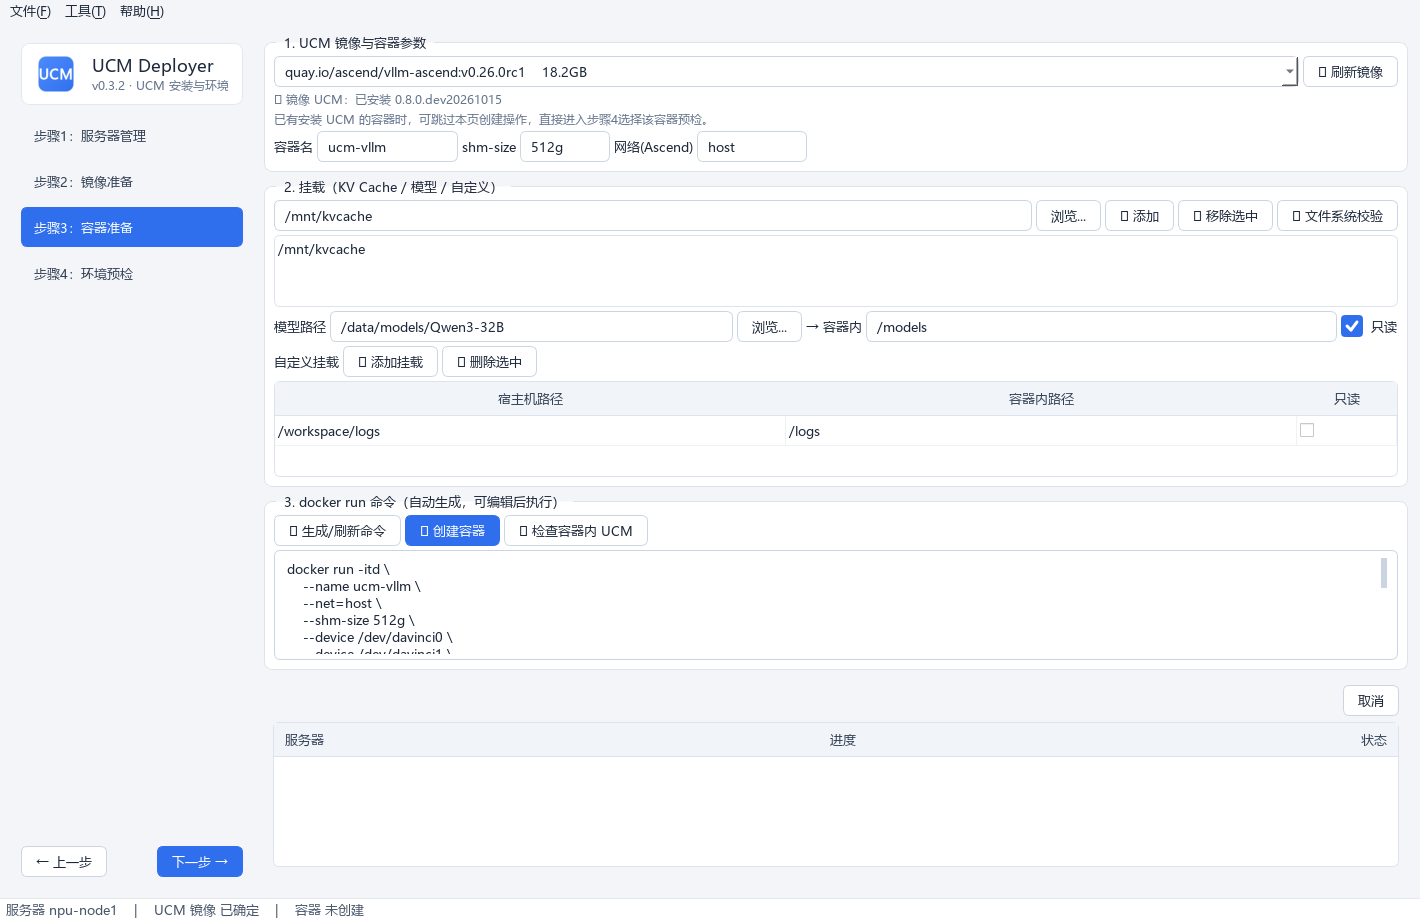
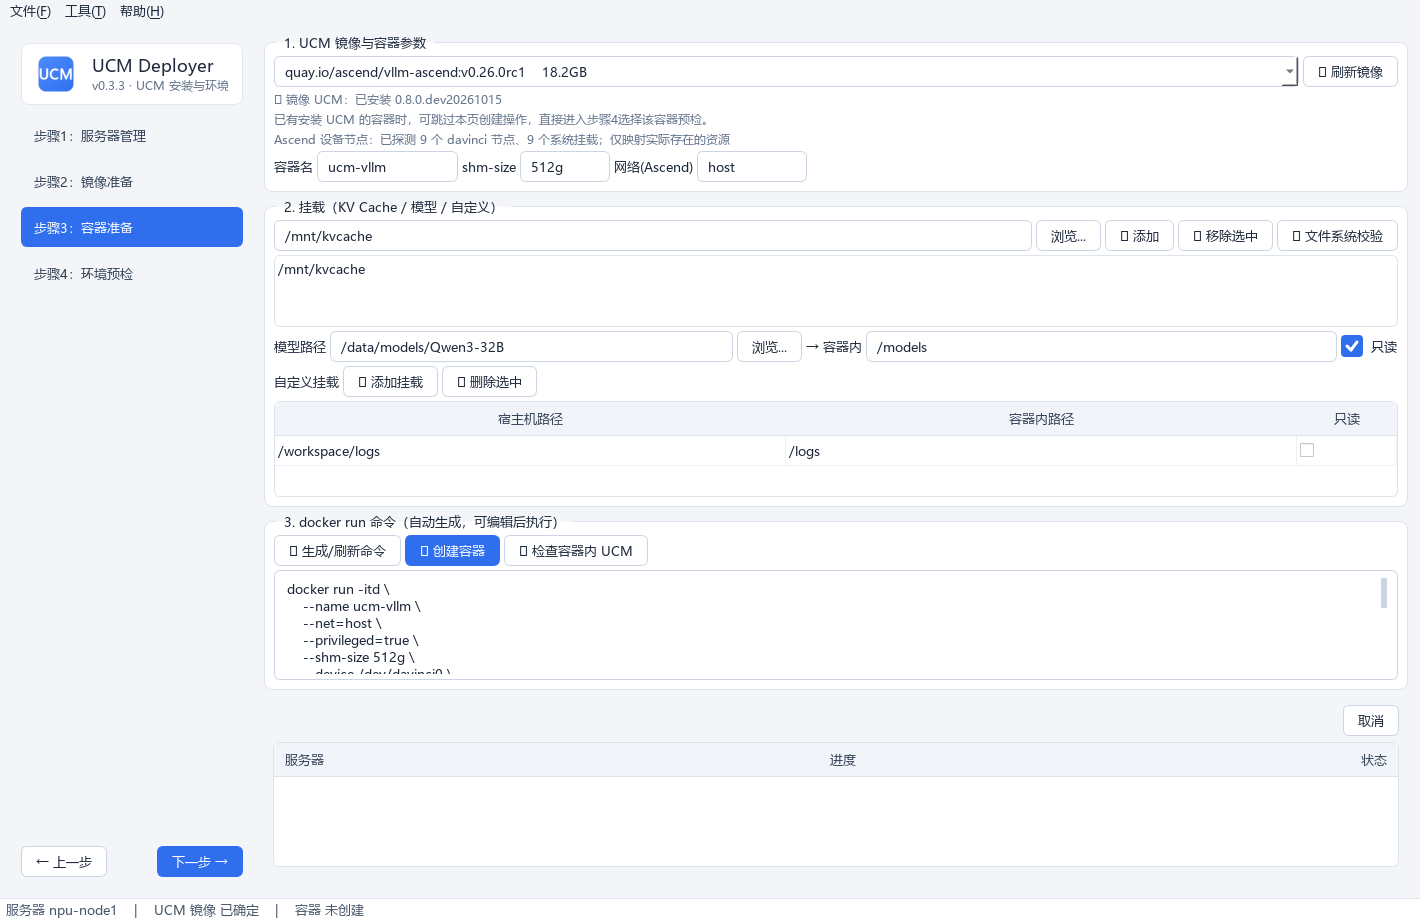
docs(release): prepare UCM installer v0.3.3

diff --git a/docs/index.html b/docs/index.html
@@ -276,7 +276,7 @@ footer {
     <a class="btn btn-primary" href="#quickstart">快速开始</a>
     <a class="btn btn-outline" href="https://github.com/student-jhz/UCM-Deployer/releases/latest/download/UCM-Deployer.exe">下载 EXE</a>
   </div>
-  <p class="meta">当前版本 v0.3.2 · 支持 Ascend NPU · NVIDIA GPU · Linux 服务器 · Docker</p>
+  <p class="meta">当前版本 v0.3.3 · 支持 Ascend NPU · NVIDIA GPU · Linux 服务器 · Docker</p>
 </header>
 
 <div class="container">
@@ -291,7 +291,7 @@ footer {
   </div>
   <div class="cards">
     <div class="card"><h3>凭据复用</h3><p>密码或私钥登录，密码 Fernet 加密保存在本机，下次打开自动复用。</p></div>
-    <div class="card"><h3>设备感知</h3><p>自动识别 Ascend / NVIDIA 型号、卡数与 CPU 架构，并贯穿镜像与容器准备。</p></div>
+    <div class="card"><h3>设备感知</h3><p>自动识别 Ascend / NVIDIA 型号、卡数与 CPU 架构，并按宿主机实际资源生成容器参数。</p></div>
     <div class="card"><h3>镜像导入</h3><p>支持本地 tar 包上传，也支持输入镜像仓库地址，按目标架构拉取后自动导入服务器。</p></div>
     <div class="card"><h3>按需构建</h3><p>仅在基础镜像未安装 UCM 时上传 wrapt、UCM、ucm-toolkit whl 并构建新镜像。</p></div>
     <div class="card"><h3>命令透明</h3><p>所有 Docker 命令先完整展示，允许编辑，再执行，避免黑盒操作。</p></div>
@@ -357,7 +357,7 @@ python -m venv .venv
     <thead><tr><th>探测项</th><th>来源</th><th>用途</th></tr></thead>
     <tbody>
       <tr><td>设备类型与型号</td><td><code>npu-smi info</code> / <code>nvidia-smi</code></td><td>匹配基础镜像平台，生成设备映射</td></tr>
-      <tr><td>卡数</td><td>设备探测结果</td><td>决定步骤 3 全量映射加速卡数量</td></tr>
+      <tr><td>卡数</td><td>设备探测结果</td><td>辅助校验步骤 3 探测到的 davinci 节点数量</td></tr>
       <tr><td>CPU 架构</td><td><code>uname -m</code></td><td>校验 whl 架构，并为镜像仓库拉取选择 linux/amd64 或 linux/arm64</td></tr>
     </tbody>
   </table>
@@ -414,6 +414,7 @@ python -m venv .venv
     若目标容器已安装 UCM，无需重复创建。直接进入步骤 4，刷新容器列表并选择该容器即可开始环境预检。
   </div>
   <h3>容器参数</h3>
+  <p>进入页面后自动探测实际存在的 Ascend 设备节点与系统挂载。兼容 Ascend950PR / A5：缺失 <code>/dev/devmm_svm</code> 时不生成该参数，存在 <code>/dev/ummu</code> 或 <code>/dev/uburma</code> 时自动添加 <code>--privileged=true</code>。</p>
   <table>
     <thead><tr><th>参数</th><th>默认值</th><th>说明</th></tr></thead>
     <tbody>
@@ -433,14 +434,22 @@ python -m venv .venv
     <figcaption>目录浏览器用于选择 KV Cache 与模型挂载路径</figcaption>
   </figure>
   <h3>命令示例</h3>
-  <pre><code># Ascend NPU：全量映射 davinci 设备与驱动
+  <pre><code># Ascend NPU：仅映射实际存在的设备节点与系统资源
 docker run -itd \\
   --name ucm-vllm \\
   --net=host --shm-size 512g \\
   --device /dev/davinci0 --device /dev/davinci1 \\
-  --device /dev/davinci_manager --device /dev/devmm_svm --device /dev/hisi_hdc \\
+  --device /dev/davinci_manager --device /dev/hisi_hdc \\
+  --device /dev/ummu --device /dev/uburma \\
+  --privileged=true \\
+  -v /usr/local/Ascend/driver:/usr/local/Ascend/driver \\
+  -v /etc/ascend_install.info:/etc/ascend_install.info \\
+  -v /etc/hccl_rootinfo.json:/etc/hccl_rootinfo.json \\
+  -v /etc/hixlep:/etc/hixlep \\
   -v /usr/local/dcmi:/usr/local/dcmi \\
-  -v /usr/local/Ascend/driver/lib64/:/usr/local/Ascend/driver/lib64/ \\
+  -v /usr/local/sbin:/usr/local/sbin \\
+  -v /usr/local/bin/npu-smi:/usr/local/bin/npu-smi \\
+  -v /usr/lib64:/usr/lib64 \\
   -v /mnt/kvcache:/mnt/kvcache \\
   -v /data/models/Qwen3-32B:/models:ro \\
   vllm-ascend-ucm:v0.26.0rc1 bash

diff --git a/scripts/take_screenshots.py b/scripts/take_screenshots.py
@@ -101,8 +101,8 @@ def main() -> int:
     # ============================================================ 步骤1
     ctx = win.ctx
     s1 = ServerInfo.create(name="npu-node1", host="10.0.10.11",
-                           remark="910B3 训练机")
-    s1.device = DeviceInfo(DeviceType.ASCEND, "Ascend 910B3", 8, arch="aarch64")
+                           remark="950PR A5 推理机")
+    s1.device = DeviceInfo(DeviceType.ASCEND, "Ascend950PR", 8, arch="aarch64")
     s2 = ServerInfo.create(name="npu-node2", host="10.0.10.12")
     s3 = ServerInfo.create(name="gpu-node1", host="10.0.20.31",
                            username="ubuntu", remark="A800 推理机")
@@ -121,7 +121,7 @@ def main() -> int:
     dlg = ServerEditDialog(win)
     dlg.name_edit.setText("npu-node3")
     dlg.host_edit.setText("10.0.10.13")
-    dlg.remark_edit.setText("新到货 910B3")
+    dlg.remark_edit.setText("新到货 950PR")
     dlg.show()
     app.processEvents()
     shot(dlg, "dialog-add-server")
@@ -147,9 +147,9 @@ def main() -> int:
     ip.wrapt_whl_edit.setText(r"D:\packages\wrapt-1.17.2-cp39-cp39-manylinux2014_aarch64.whl")
     ip.toolkit_edit.setText(r"D:\packages\ucm_toolkit-0.8.0.dev1-py3-none-any.whl")
     ip._suggest_tag_if_empty()
-    ip.match_label.setText("✓ 匹配校验：校验通过：服务器 Ascend 910B3 x8（aarch64）"
+    ip.match_label.setText("✓ 匹配校验：校验通过：服务器 Ascend950PR x8（aarch64）"
                            " 与镜像/安装包匹配\n⚠ 无法从镜像名 repo1 判断平台——（演示略）")
-    ip.match_label.setText("✓ 匹配校验：校验通过：服务器 Ascend 910B3 x8（aarch64）"
+    ip.match_label.setText("✓ 匹配校验：校验通过：服务器 Ascend950PR x8（aarch64）"
                            " 与镜像/安装包匹配")
     goto(1)
     shot(win, "step2-build")
@@ -157,6 +157,29 @@ def main() -> int:
     # ============================================================ 步骤3
     cp = win.container_page
     from ucm_deployer.gui.widgets.common import fill_image_combo
+
+    fs.FakeSSHClient.add_default(
+        r"^for d in /dev/davinci",
+        stdout="\n".join([
+            *[f"/dev/davinci{i}" for i in range(8)],
+            "/dev/davinci_manager", "/dev/hisi_hdc",
+            "/dev/ummu", "/dev/uburma",
+        ]) + "\n",
+    )
+    fs.FakeSSHClient.add_default(
+        r"^for p in",
+        stdout="\n".join([
+            "/usr/local/Ascend/driver",
+            "/etc/ascend_install.info",
+            "/etc/hccl_rootinfo.json",
+            "/etc/hixlep",
+            "/root/.cache",
+            "/usr/local/sbin",
+            "/usr/local/dcmi",
+            "/usr/local/bin/npu-smi",
+            "/usr/lib64",
+        ]) + "\n",
+    )
 
     fill_image_combo(cp.image_combo, ip._images,
                      current="quay.io/ascend/vllm-ascend:v0.26.0rc1")
@@ -171,6 +194,9 @@ def main() -> int:
     cp._extra_add()
     cp.extra_table.item(0, 0).setText("/workspace/logs")
     cp.extra_table.item(0, 1).setText("/logs")
+    cp.ascend_device_label.setText(
+        "Ascend 设备节点：已探测 8 个 davinci 节点、9 个系统挂载；"
+        "仅映射实际存在的资源")
     cp._regen()
     goto(2)
     shot(win, "step3-container")

diff --git a/ucm_deployer/version.py b/ucm_deployer/version.py
@@ -1,4 +1,4 @@
 # -*- coding: utf-8 -*-
 """应用名称与版本号。"""
 APP_NAME = "UCM Deployer"
-__version__ = "0.3.2"
+__version__ = "0.3.3"

diff --git a/README.md b/README.md
@@ -12,7 +12,7 @@
 
 - **步骤1 服务器管理**：SSH 登录信息本地加密保存/复用；单选登录一台服务器；`npu-smi`/`nvidia-smi` 设备探测（型号/卡数/CPU 架构）
 - **步骤2 镜像准备**：选服务器已有镜像（**关键字筛选**）、上传 tar 包 `docker load`，或输入镜像仓库地址（如 `quay.io/ascend/vllm-ascend:v0.30.0rc2-a5-openeuler`）由本地 Docker **按目标服务器架构拉取**、导出 `tar.gz` 并自动上传加载；已含 UCM 的镜像可直接复用并跳过构建；确需构建时上传 wrapt/UCM/ucm-toolkit whl，构建前自动校验设备平台与架构
-- **步骤3 容器准备**：选 UCM 镜像（**选择时自动校验**镜像内 UCM）；自动识别卡数**全量映射加速卡**（NPU: 全部 davinci 设备 + 驱动挂载 + `--net=host`；GPU: `--runtime nvidia --gpus all -p 8000:8000`）；KV Cache / 模型只读 / 自定义挂载；docker run 命令**可编辑**后执行；已有 UCM 容器可跳过创建
+- **步骤3 容器准备**：选 UCM 镜像（**选择时自动校验**镜像内 UCM）；自动探测宿主机实际存在的 Ascend 设备节点与驱动/工具挂载，兼容 Ascend 950PR/A5（缺失 `/dev/devmm_svm` 时不再生成该参数，存在 `/dev/ummu` 或 `/dev/uburma` 时自动添加 `--privileged=true`）；GPU 使用 `--runtime nvidia --gpus all -p 8000:8000`；KV Cache / 模型只读 / 自定义挂载；docker run 命令**可编辑**后执行；已有 UCM 容器可跳过创建
 - **步骤4 环境预检**：**显式选择目标容器**（刷新 `docker ps -a` 后选择已有容器或输入容器名）；在所选容器内运行 `ucm-toolkit run precheck`（驱动/内核/共享内存/AIO 检查 + **可选挂载目录带宽测试**）；**预检参数可配置**；结果**表格+详情区展示**（PASS/WARN/FAIL/INFO 着色、中文名与排查建议）
 - **工具菜单**：清理指定容器（`docker ps -a` 勾选删除）/ 清理指定镜像（`docker images` 勾选删除），作用于当前登录的服务器
 - 步骤间**自由跳转**（前置条件在操作执行时拦截）；所有生成的命令**先展示、可编辑、再执行**；本工具负责 UCM 安装与环境预检，不负责启动或部署推理服务
@@ -58,7 +58,7 @@ git tag v0.2.0 && git push origin v0.2.0
 
 | 层级 | 手段 | 覆盖 |
 |---|---|---|
-| 单元测试 | `tests/`（FakeSSH 脚本化 paramiko 替身） | SSH/加密/注册表/设备解析/docker 解析/Dockerfile/命令生成/匹配校验 等 85 项 |
+| 单元测试 | `tests/`（FakeSSH 脚本化 paramiko 替身） | SSH/加密/注册表/设备解析/docker 解析/Dockerfile/命令生成/匹配校验 等 150 项 |
 | GUI | offscreen 冒烟 | 三页面实例化、导航守卫、单选、镜像筛选、下载链接、whl 反馈、像素采样断言界面无黑块 |
 | 产物 | `exe --smoke` | 打包后程序自检 |
 
@@ -87,7 +87,7 @@ UCM-Deployer/
 │   │   ├── main_window.py        # 主窗口/导航守卫/状态栏
 │   │   └── theme.py              # QSS 主题 + 图标
 │   └── utils/                    # 日志/路径
-├── tests/                        # 85 项测试（FakeSSH + GUI 冒烟）
+├── tests/                        # 150 项测试（FakeSSH + GUI 冒烟）
 ├── docs/                         # 用户手册 / 架构文档
 ├── scripts/build_exe.ps1         # 打包脚本
 └── ucm_deployer.spec             # PyInstaller 配置

diff --git a/docs/用户手册.md b/docs/用户手册.md
@@ -10,7 +10,7 @@
 
 - **步骤1 服务器管理**：SSH 登录信息本地加密保存/复用；单选登录一台服务器；`npu-smi`/`nvidia-smi` 设备探测（型号/卡数/CPU 架构）
 - **步骤2 镜像准备**：复用已含 UCM 的镜像；支持上传 tar 包或输入镜像仓库地址自动拉取导入；确需构建时上传 wrapt/UCM/ucm-toolkit whl 并校验匹配
-- **步骤3 容器准备**：选 UCM 镜像（自动校验）；自动识别卡数全量映射全部加速卡；KV Cache / 模型 / 自定义挂载；docker run 命令可编辑后执行；已有 UCM 容器可跳过创建
+- **步骤3 容器准备**：选 UCM 镜像（自动校验）；自动探测并映射实际存在的 Ascend 设备节点、驱动与工具挂载，兼容 Ascend950PR/A5；KV Cache / 模型 / 自定义挂载；docker run 命令可编辑后执行；已有 UCM 容器可跳过创建
 - **步骤4 环境预检**：显式选择目标容器并在其中运行 ucm-toolkit 预检（环境检查 + 可选挂载目录带宽测试），结果表格逐项展示
 
 所有生成的命令与脚本都是**先展示、可编辑、再执行**。本工具负责 UCM 安装与环境预检，不负责启动或部署推理服务。
@@ -90,8 +90,8 @@ powershell -ExecutionPolicy Bypass -File scripts\build_exe.ps1
 3. **KV Cache 挂载目录**：可添加多个（路径输入框支持「浏览」远端目录）；目录挂载到容器内相同路径；可点「🔍 文件系统校验」检查目录所在文件系统（本地/网络存储）；
 4. **模型路径**：宿主机路径（支持远端浏览）→ 容器内路径（默认 `/models`），默认只读；
 5. **自定义挂载**：任意宿主机/容器路径映射，可勾选只读；
-6. **docker run 命令**：点「🔁 生成/刷新命令」自动生成——按服务器卡数**全量映射加速卡**：
-   - NPU：全部 `/dev/davinci*` 设备 + `davinci_manager`/`devmm_svm`/`hisi_hdc` + Ascend 驱动挂载 + `--net=host --shm-size`
+6. **docker run 命令**：点「🔁 生成/刷新命令」自动生成——按服务器实际资源映射加速卡：
+   - NPU：逐个探测实际存在的 `/dev/davinci*`、`davinci_manager`、`hisi_hdc`、`devmm_svm`、`ummu`、`uburma`，并只映射存在的节点；同时筛选实际存在的 Ascend 驱动/工具/配置挂载；A5/950PR 检测到 `ummu`/`uburma` 时自动添加 `--privileged=true`
    - GPU：`--runtime nvidia --gpus all -p 8000:8000 --ipc=host`
    - 命令**可编辑**，点「🚀 创建容器」按编辑框内容执行；
 7. 点「✅ 检查容器内 UCM」确认容器可用。
@@ -151,4 +151,4 @@ powershell -ExecutionPolicy Bypass -File scripts\build_exe.ps1
 `~/.ucm_deployer/logs/ucm_deployer.log`（菜单「帮助 → 打开日志目录」）。
 
 **Q: 如何在无真实服务器时验证程序？**
-运行 `.venv\Scripts\python -m pytest`（121 项自动化测试覆盖 SSH/加密/设备解析/docker/命令生成/匹配校验/环境预检/GUI 冒烟，无需真实服务器）。
+运行 `.venv\Scripts\python -m pytest`（150 项自动化测试覆盖 SSH/加密/设备解析/docker/命令生成/匹配校验/环境预检/GUI 冒烟，无需真实服务器）。

diff --git a/scripts/release_notes_template.md b/scripts/release_notes_template.md
@@ -10,18 +10,17 @@
 
 ## 本版本更新
 
-- **镜像仓库拉取**：输入 `quay.io/ascend/vllm-ascend:v0.30.0rc2-a5-openeuler` 这类镜像地址，本地 Docker 按目标服务器 CPU 架构执行 `docker pull --platform`，导出 `tar.gz` 后自动上传服务器并 `docker load`。
-- **复用已有 UCM 镜像**：基础镜像已安装 UCM 时，可直接记录并进入容器准备，无需重复构建；安装包区域明确标记为“仅在需要构建新 UCM 镜像时填写”。
-- **复用已有 UCM 容器**：已有容器无需重建，可在步骤 4 刷新容器列表并选择该容器直接预检。
-- **显式目标容器**：步骤 4 新增目标容器下拉框与刷新按钮，预检命令始终在用户显式选择的容器内执行。
-- **产品定位修正**：工具定位为 UCM 安装与环境预检，不负责启动或部署推理服务。
-- **文档**：在线文档更新新流程与新截图；「下载 EXE」改为直接下载最新版附件。
+- **设备型号识别**：修复新版 `npu-smi` 表格解析，正确显示 `Ascend950PR`，不再误报“型号未知”。
+- **动态设备节点映射**：创建容器前逐个探测 `/dev/davinci*`、`davinci_manager`、`hisi_hdc`、`devmm_svm`、`ummu`、`uburma`，仅映射实际存在的节点；950PR/A5 没有 `/dev/devmm_svm` 时不会再生成该参数。
+- **A5 系统资源适配**：自动筛选实际存在的 Ascend 驱动、工具与配置挂载；检测到 `/dev/ummu` 或 `/dev/uburma` 时自动添加 `--privileged=true`。
+- **文档与截图**：在线手册、首页与截图更新 950PR/A5 场景，并保留中文可读截图。
+- **产品定位**：工具定位为 UCM 安装与环境预检，不负责启动或部署推理服务。
 
 ## 主要功能
 
 - **步骤1 服务器管理**：SSH 凭据本地加密保存/复用；自动探测设备型号、卡数与 CPU 架构。
 - **步骤2 镜像准备**：支持服务器已有镜像、本地 tar 上传、镜像仓库拉取；按需离线构建 UCM 镜像并校验平台/架构匹配。
-- **步骤3 容器准备**：选择 UCM 镜像自动校验安装情况；按设备卡数生成可编辑 `docker run` 命令；支持 KV Cache、模型与自定义挂载。
+- **步骤3 容器准备**：选择 UCM 镜像自动校验安装情况；按宿主机实际存在的设备节点与系统挂载生成可编辑 `docker run` 命令；支持 KV Cache、模型与自定义挂载。
 - **步骤4 环境预检**：显式选择容器；检查驱动、内核、共享内存、AIO 与存储带宽；支持 JSON 参数叠加配置。
 - **工具菜单**：按关键字筛选并清理容器/镜像，删除前展示完整确认列表。
 

diff --git a/docs/guide/step3.md b/docs/guide/step3.md
@@ -1,6 +1,6 @@
 # 步骤3 · 容器创建
 
-基于 UCM 镜像创建推理容器：自动全量映射加速卡，配置挂载，生成的 docker run 命令**可编辑后执行**。
+基于 UCM 镜像创建 UCM 容器：自动探测并映射实际存在的加速卡设备节点与系统资源，配置挂载，生成的 docker run 命令**可编辑后执行**。
 
 ![步骤3 界面](../screenshots/step3-container.png)
 
@@ -31,7 +31,11 @@
 
 ### 4. 生成 / 执行命令
 
-点「🔁 生成/刷新命令」自动生成 docker run——按探测卡数**全量映射加速卡**：
+点「🔁 生成/刷新命令」自动生成 docker run。对 Ascend 服务器，工具会先探测宿主机实际存在的设备节点与驱动/工具/配置挂载，只生成存在的 `--device` 与 `-v` 参数：
+
+- 兼容 `Ascend950PR` / A5：没有 `/dev/devmm_svm` 时不会生成该参数；
+- 探测到 `/dev/ummu` 或 `/dev/uburma` 时自动添加 `--privileged=true`；
+- 自动包含实际存在的 `/usr/local/Ascend/driver`、`/etc/ascend_install.info`、`/etc/hccl_rootinfo.json`、`/etc/hixlep`、`/usr/local/dcmi`、`/usr/local/sbin`、`/usr/local/bin/npu-smi`、`/usr/lib64`、`/root/.cache` 等挂载。
 
 === "NPU（vllm-ascend）"
 
@@ -40,11 +44,18 @@
         --name ucm-vllm \
         --net=host --shm-size 512g \
         --device /dev/davinci0 ... --device /dev/davinci7 \
-        --device /dev/davinci_manager --device /dev/devmm_svm --device /dev/hisi_hdc \
+        --device /dev/davinci_manager --device /dev/hisi_hdc \
+        --device /dev/ummu --device /dev/uburma \
+        --privileged=true \
+        -v /usr/local/Ascend/driver:/usr/local/Ascend/driver \
+        -v /etc/ascend_install.info:/etc/ascend_install.info \
+        -v /etc/hccl_rootinfo.json:/etc/hccl_rootinfo.json \
+        -v /etc/hixlep:/etc/hixlep \
         -v /usr/local/dcmi:/usr/local/dcmi \
+        -v /usr/local/sbin:/usr/local/sbin \
         -v /usr/local/bin/npu-smi:/usr/local/bin/npu-smi \
-        -v /usr/local/Ascend/driver/lib64/:/usr/local/Ascend/driver/lib64/ \
-        ...（完整驱动挂载） \
+        -v /usr/lib64:/usr/lib64 \
+        -v /root/.cache:/root/.cache \
         -v /mnt/kvcache:/mnt/kvcache \
         -v /data/models/Qwen3-32B:/models:ro \
         vllm-ascend-ucm:v0.26.0rc1 bash

diff --git a/docs/index.md b/docs/index.md
@@ -1,15 +1,15 @@
 # UCM Deployer
 
-**UCM (Unified Cache Management) 一键部署工具 —— Windows 桌面版**
+**UCM (Unified Cache Management) 安装与环境预检工具 —— Windows 桌面版**
 
-面向 vLLM / vLLM-Ascend / SGLang 推理容器（Ascend NPU / NVIDIA GPU），把 UCM 的部署简化为四个向导步骤：
+面向 vLLM / vLLM-Ascend / SGLang 运行环境（Ascend NPU / NVIDIA GPU），把 UCM 的安装与环境预检简化为四个向导步骤：
 
 ```
 ① 服务器管理 → ② 镜像构建 → ③ 容器创建 → ④ 环境预检
 ```
 
 [快速开始 :material-rocket-launch:](guide/install.md){ .md-button .md-button--primary }
-[下载最新版 exe](https://github.com/student-jhz/UCM-Deployer/releases){ .md-button }
+[下载最新版 exe](https://github.com/student-jhz/UCM-Deployer/releases/latest/download/UCM-Deployer.exe){ .md-button }
 
 ---
 
@@ -21,7 +21,7 @@
 |---|---|
 | **① 服务器管理** | SSH 登录信息本地加密保存/复用；单选登录；`npu-smi`/`nvidia-smi` 设备探测（型号/卡数/CPU 架构） |
 | **② 镜像构建** | 基础镜像**关键字筛选**或上传 tar `docker load`；上传 wrapt/UCM/ucm-toolkit whl（附**在线下载链接**与即时反馈）；构建前自动**匹配校验**（设备平台 + whl 架构标记） |
-| **③ 容器创建** | 选 UCM 镜像（**选择时自动校验**）；按卡数**全量映射加速卡**（NPU 全部 davinci 设备+驱动挂载 / GPU `--runtime nvidia --gpus all`）；KV Cache/模型/自定义挂载；docker run 命令**可编辑**后执行 |
+| **③ 容器创建** | 选 UCM 镜像（**选择时自动校验**）；自动探测并映射实际存在的 Ascend 设备节点、驱动与工具挂载，兼容 Ascend950PR/A5；GPU 使用 `--runtime nvidia --gpus all`；docker run 命令**可编辑**后执行 |
 | **④ 环境预检** | 容器内运行 `ucm-toolkit run precheck`（环境检查 + **可选带宽测试**，临时子目录自动清理）；**预检参数可配置**；结果表格+详情区展示（中文名与排查建议） |
 | **工具菜单** | 清理指定容器/镜像（关键字筛选、悬浮看全名） |
 

diff --git a/docs/architecture.md b/docs/architecture.md
@@ -4,9 +4,9 @@
 
 ## 1. 目标
 
-在 Windows 上提供一个桌面程序（单个 exe），辅助运维人员把 UCM（Unified Cache Management）
-部署到一台服务器上的 vLLM / vLLM-Ascend / SGLang 推理容器中，完成从
-「服务器登录 → 镜像构建 → 容器创建」的全流程。
+在 Windows 上提供一个桌面程序（单个 exe），辅助运维人员在一台服务器上的
+vLLM / vLLM-Ascend / SGLang 运行容器中安装 UCM 并完成环境预检，
+覆盖「服务器登录 → 镜像准备 → 容器准备 → 环境预检」流程。
 
 暂缓（架构预留，未实现）：部署配置（PD 拓扑/启动脚本生成）与服务拉起。
 
@@ -124,7 +124,7 @@ TerminateProcess 从未执行（这正是最初"保险失效"的原因）。
 - **GUI 冒烟**：`QT_QPA_PLATFORM=offscreen` 下实例化页面验证交互逻辑
   （自由跳转、操作拦截、镜像筛选、命名建议联动、一屏排版断言）；
   界面渲染质量用像素采样断言（不依赖人工看图）；
-- 共 85 项测试。
+- 共 150 项测试。
 
 ## 7. 发布流程
 

diff --git a/docs/guide/install.md b/docs/guide/install.md
@@ -2,7 +2,7 @@
 
 ## 方式一：直接使用 exe（推荐）
 
-从 [Releases](https://github.com/student-jhz/UCM-Deployer/releases) 下载最新的 `UCM-Deployer.exe`，双击即可运行（无需安装 Python）。
+从 [Releases 直接下载最新版 `UCM-Deployer.exe`](https://github.com/student-jhz/UCM-Deployer/releases/latest/download/UCM-Deployer.exe)，双击即可运行（无需安装 Python）。
 
 产物自检（可选）：
 

diff --git a/docs/guide/step1.md b/docs/guide/step1.md
@@ -24,7 +24,7 @@
 
 点「🔍 探测设备」自动识别：
 
-- 设备类型与型号（`npu-smi info` / `nvidia-smi`，如 `Ascend 910B3`）
+- 设备类型与型号（`npu-smi info` / `nvidia-smi`，如 `Ascend 910B3`、`Ascend950PR`）
 - **卡数**（步骤2/3 的设备映射依据）
 - **CPU 架构**（`uname -m`，步骤2 匹配校验依据）
 
